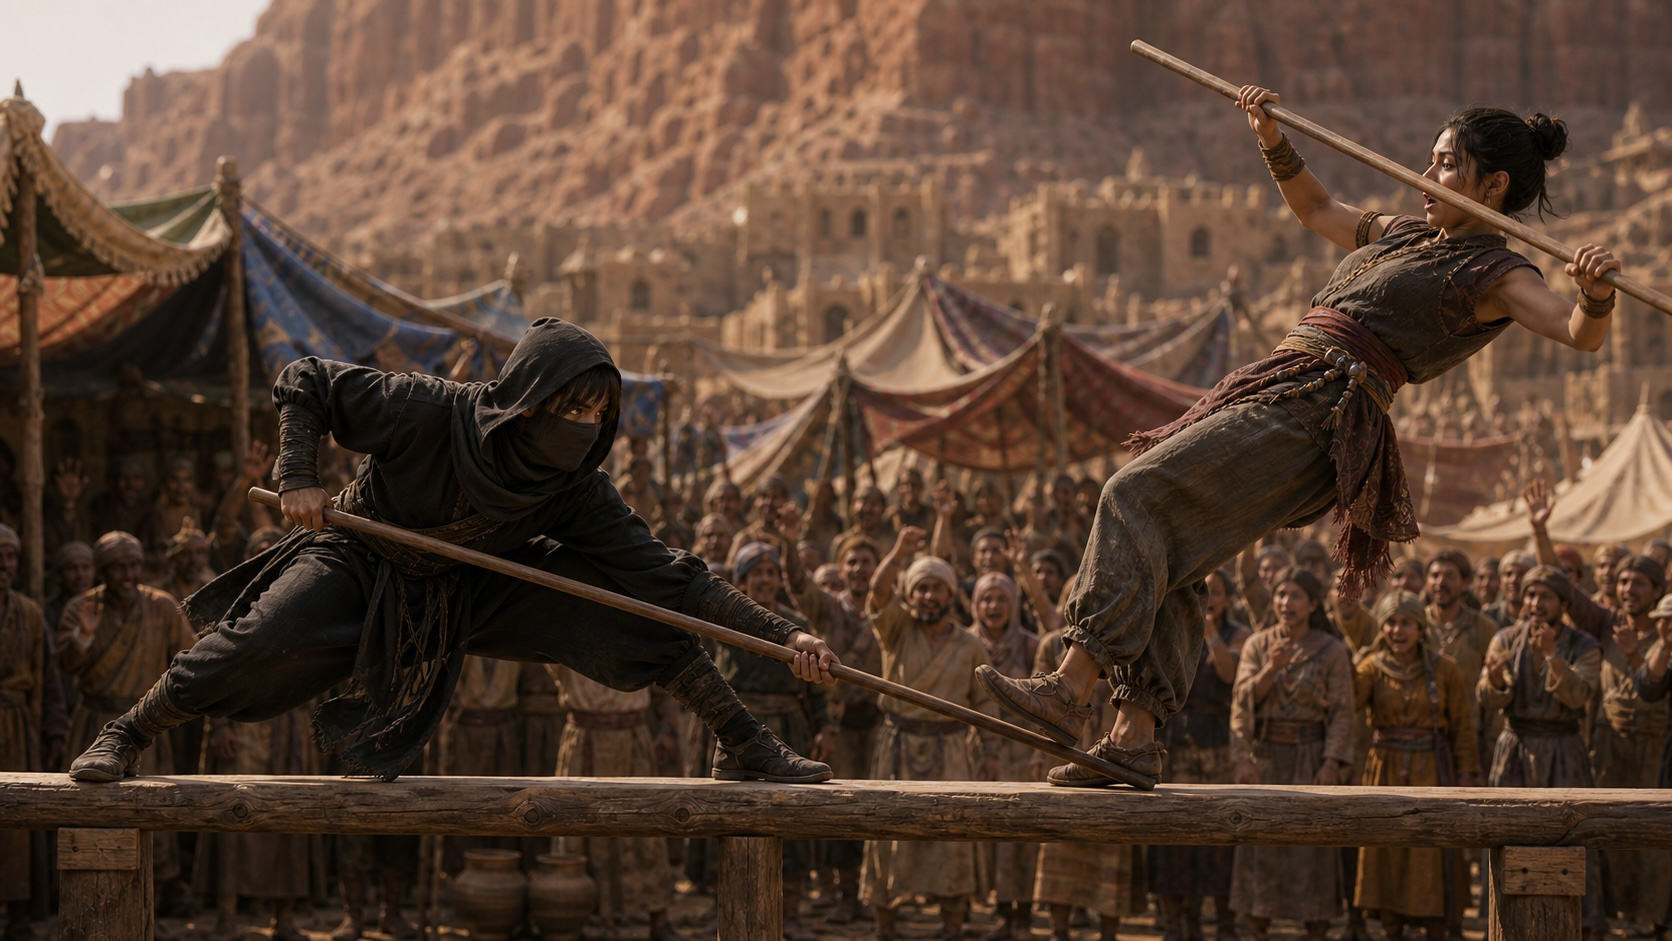
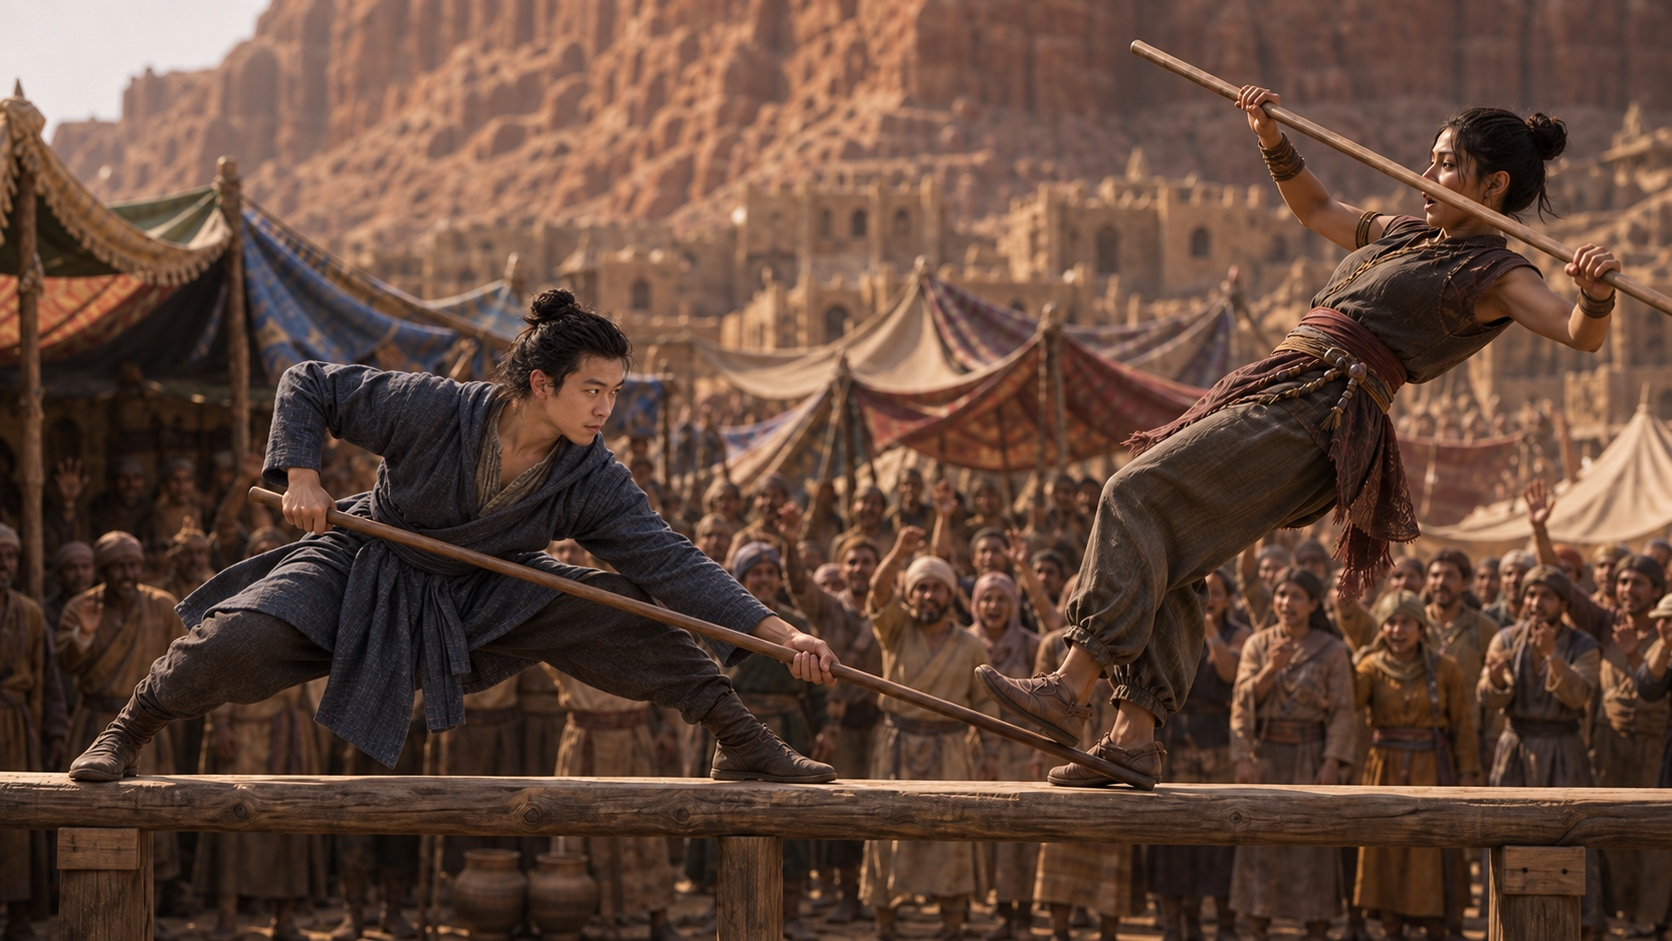
add assets, replace PC images with intro images, dunmar session 6 recap add images

diff --git a/assets/pc-references/kenzo-early-campaign-reference.md b/assets/pc-references/kenzo-early-campaign-reference.md
@@ -1,0 +1,56 @@
+---
+tags: [meta, status/check/ai]
+---
+# Kenzo — early-campaign character reference
+
+This set uses the portrait approved on September 18, 2026, for Kenzo's early-campaign appearance. Preserve this set separately from later-campaign appearances.
+
+## Reference images
+
+| Close portrait | Full body — front | Full body — rear |
+|---|---|---|
+| ![[kenzo-early-campaign-portrait.png]] | ![[kenzo-early-campaign-full-body-front.png]] | ![[kenzo-early-campaign-full-body-rear.png]] |
+
+All three images are **1254 × 1254 PNGs**, with opaque image content extending to every edge and no white side lines or borders.
+
+## Approved visual anchor
+
+- A young adult human man with a subtly thin, gently tapered face, healthy cheek softness, a softly defined jaw and rounded chin, lighter eyebrows, relaxed dark-brown eyes, and a small closed-mouth smile.
+- Clean-shaven, with warm natural skin and realistic skin texture.
+- Long black hair swept back into a high topknot, with a few fine loose strands.
+- A lithe, lean, strong athletic build, with balanced shoulders and understated natural muscle.
+- A plain dark slate-blue woven hooded robe, hood down, over a gray open-neck linen underlayer.
+- Warm mottled brown backdrop, soft portrait lighting, and a realistic photographic style.
+
+The user selected the younger portrait with lighter eyebrows, requested a closer resemblance to the supplied second facial reference, then approved the refinement with a subtly thinner face and a more lithe, strong build. That final approved portrait is the identity anchor for these views.
+
+## Full-body design
+
+The front view extends the selected portrait into a practical robe ending just below the knees, long sleeves, a matching blue cloth sash, plain charcoal trousers, and worn dark-brown leather ankle boots. The sash knot and hanging ends sit at Kenzo's left front waist. They remain mostly hidden from the rear; the down hood rests across the upper back.
+
+The robe length, sash, lower clothing, boots, and rear construction are visual interpretations made to complete the reference set. The rear view follows the generated front view for consistent proportions, clothing, and hair. Both full-body images use a relaxed neutral stance with empty hands so the outfit is visible. This does not imply that Kenzo never carries a staff.
+
+## Early transcript anchors
+
+### Athletic build and light travelling robe
+
+> Kenzo's human, uh, Dunmari, um, dark hair, uh, very, very fit looking, athletic, um, but also wearing just kind of loose traveler's outfits, um, light robe.
+
+[[dunmari-frontier-006-source-cleaned|Session 6 cleaned transcript]], **u1539–u1540**, **01:24:12.568–01:24:26.568**.
+
+### Ordinary eye color
+
+> Yeah, no, they're normally, like, brown eyes, so.
+
+[[dunmari-frontier-006-source-cleaned|Session 6 cleaned transcript]], **u3797**, **03:30:10.650–03:30:12.610**.
+
+This set keeps Kenzo's normal brown eyes. The brilliant blue eyes described later in that session are a distinct changed appearance and are not used here.
+
+## Provenance and verification
+
+Generated with the built-in image_gen tool. The close portrait removes the side strips and extends the approved image into the same square format as the other PC sets. The full-body front extends that approved identity and clothing; the rear uses the completed front and close portrait as references.
+
+The approved source portrait remains in the Taelgar Images project at `output/imagegen/topknot-refined-lithe-strong.png`. The generation prompts, source records, and verification results remain in that project under `generated/kenzo-early-campaign-character-reference-v1/` as `prompts.json`, `files.json`, and `verification.json`.
+
+All project copies match their generated sources by SHA-256. Each image is opaque and square. The outer 16-pixel bands on all four sides of every image were checked and contain zero near-white pixels.
+

diff --git a/_sessions/dunmar-frontier/dunmari-frontier-006/cleaned/dunmari-frontier-006-session-recap.md b/_sessions/dunmar-frontier/dunmari-frontier-006/cleaned/dunmari-frontier-006-session-recap.md
@@ -266,13 +266,13 @@ At Kenzo's prompting, Seeker plans stronger defenses for the exposed temple entr
 - Organizations: none
 - Items: Riswynn's map of Raven's Hold, The Runes of Creation, Shrine of Jeevali
 - Enemies: none
-- Image:
-- Image Role:
-- Image Size:
+- Image: [[dufr-006-westward-embers.webp]]
+- Image Role: hero
+- Image Size: standard
 - Image Placement:
 - Image Render:
-- Image Caption:
-- Image Alt:
+- Image Caption: Embers drift west from Jeevali's burning shrine as Suma calls on Karawa's people to follow the goddess.
+- Image Alt: Suma stands beside a burning tree-shaped shrine before a gathered crowd as glowing embers stream across the twilight sky.
 
 #### Short
 Riswynn joins them before the Festival of Rebirth, where Suma interprets the burning shrine's westward embers as Jeevali's blessing for the evacuation.
@@ -298,13 +298,20 @@ Together they follow the townspeople to the desert ceremony. Suma recounts how J
 - Organizations: none
 - Items: Shrine of Jeevali
 - Enemies: Gnolls, Mouth creatures, Mouth creature, Sleeping gnoll
-- Image:
-- Image Role:
-- Image Size:
+- Image: [[dufr-006-maw-creature.webp]]
+- Image Role: aside
+- Image Size: standard
 - Image Placement:
 - Image Render:
-- Image Caption:
-- Image Alt:
+- Image Caption: One of the monstrous mouth creatures attacking Karawa.
+- Image Alt: A squat, clawed creature with scattered eyes and an enormous mouth full of teeth advances between the camp's tents.
+- Image 2: [[dufr-006-riswynn-heals-kenzo.webp]]
+- Image 2 Role: figure
+- Image 2 Size: standard
+- Image 2 Placement:
+- Image 2 Render:
+- Image 2 Caption: Riswynn restores Kenzo with healing magic while Delwath guards him from the remaining mouth creature.
+- Image 2 Alt: Riswynn kneels beside the fallen Kenzo with glowing hands as Delwath stands over them, shadow blade raised toward a mouth creature.
 
 #### Short
 The next day's ceremony is interrupted by gnolls and monstrous mouths; the party defeats them, but Kenzo nearly dies and Ander tries to be devoured.
@@ -334,13 +341,13 @@ Seeker draws thorny vines before Ander, whose terror makes him faint. Delwath sp
 - Organizations: Shakun Mystai, Havdar's Warband
 - Items: Mouth-creature remains, Tooth from a mouth creature, Legendary Staff of Kenzo
 - Enemies: none
-- Image:
-- Image Role:
-- Image Size:
+- Image: [[dufr-006-exodus-from-karawa.webp]]
+- Image Role: figure
+- Image Size: standard
 - Image Placement:
 - Image Render:
-- Image Caption:
-- Image Alt:
+- Image Caption: Karawa's people evacuate west at first light while the party follows the attackers' tracks north.
+- Image Alt: Families, wagons, pack animals, and livestock form a long column across the scrubland, with mounted escorts riding alongside in the dawn light.
 
 #### Short
 With Kenzo recovering and the mouths' origins uncertain, the party follows the attackers' tracks north at dawn while Havdar escorts the villagers west.

diff --git a/People/PCs/Dunmar Fellowship/Riswynn.md b/People/PCs/Dunmar Fellowship/Riswynn.md
@@ -19,8 +19,9 @@ affiliations:
 > A [[Nardith]] [[Dwarves|dwarf]] (she/her), of the [[Dunmar Fellowship]], and the [[Brawnanvils|Brawnanvil Clan]]  
 > `$=dv.view("_scripts/view/get_Affiliations")`
 
-![[riswynn.png|400]]
-
+> [!image|right standard]
+> ![[riswynn-intro-ikrams-courtyard.webp]]
+> *Riswynn meets the Dunmar Fellowship at Ikram's.*
 ## Pre-Campaign Events
 - (DR:: 1748-03-10): Riswynn leaves Tharn Todar, heading north for Raven's Hold
 - (DR:: 1748-03-24): Riswynn leaves Askandi, heading for Karawa.

diff --git a/People/PCs/Dunmar Fellowship/Kenzo.md b/People/PCs/Dunmar Fellowship/Kenzo.md
@@ -17,8 +17,9 @@ dm_notes: important
 > A [[Dunmar|Dunmari]] [[Humans|human]] (he/him), of the [[Dunmar Fellowship]]  
 > `$=dv.view("_scripts/view/get_Affiliations")`
 
-![[kenzo-full.jpg|400]]
-
+> [!image|right standard]
+> ![[kenzo-intro-desert-traveler.webp]]
+> *Kenzo approaches Karawa as our campaign begins.*
 ## Pre-Campaign Events
 
 - (DR:: 1748-03-11): Kenzo leaves the Lakan Monastery at Tokra, heading for Karawa in search of answers about his dreams, and the jade fragment he carries.

diff --git a/People/PCs/Dunmar Fellowship/Delwath.md b/People/PCs/Dunmar Fellowship/Delwath.md
@@ -1,6 +1,6 @@
 ---
 headerVersion: 2023.11.25
-tags: [person, status/cleanup/image]
+tags: [person]
 campaignInfo:
 name: Delwath
 born: 1472
@@ -25,7 +25,12 @@ whereabouts:
 
 %% status/check/mike in case there are other status tags to add, but seems correct to me %%
 
-![[delwath-portrait.jpg]]
+> [!image|right standard]
+> ![[delwath-intro-teahouse-threshold.webp]]
+> *Delwath in Karawa as our campaign begins.*
+
+
+
 
 ## Pre-Campaign Events
 

diff --git a/People/PCs/Dunmar Fellowship/Wellby.md b/People/PCs/Dunmar Fellowship/Wellby.md
@@ -17,8 +17,9 @@ affiliations: [ {org: Dunmar Fellowship}, {org: Goodbarrels, type: primary}]
 > A [[Halflings|halfling]] (he/him), of the [[Goodbarrels]]  
 > `$=dv.view("_scripts/view/get_Affiliations")`
 
-![[welby-full.jpg|400]]
-
+> [!image|right standard]
+> ![[wellby-outside-ikrams-dunmar-map.webp]]
+> *Wellby and his maps.*
 ## Pre-Campaign Events
 
 - (DR:: 1747-08-02): Wellby leaves [[Sembara]], heading south. Spends some time wandering.

diff --git a/People/PCs/Dunmar Fellowship/Seeker.md b/People/PCs/Dunmar Fellowship/Seeker.md
@@ -17,7 +17,13 @@ affiliations: [{org: Dunmar Fellowship, type: primary}]
 > A [[Dwarves|dwarf]] (he/him), of the [[Dunmar Fellowship]]  
 > `$=dv.view("_scripts/view/get_Affiliations")`
 
-![[seeker.jpg|right|400]]
+> [!image|right standard]
+> ![[seeker-writing-ikrams-courtyard-v1.webp]]
+> *Seeker, writing in his notebook in Ikram's, as our campaign begins.*
+
+
+
+
 
 ## Pre-Campaign Events
 
